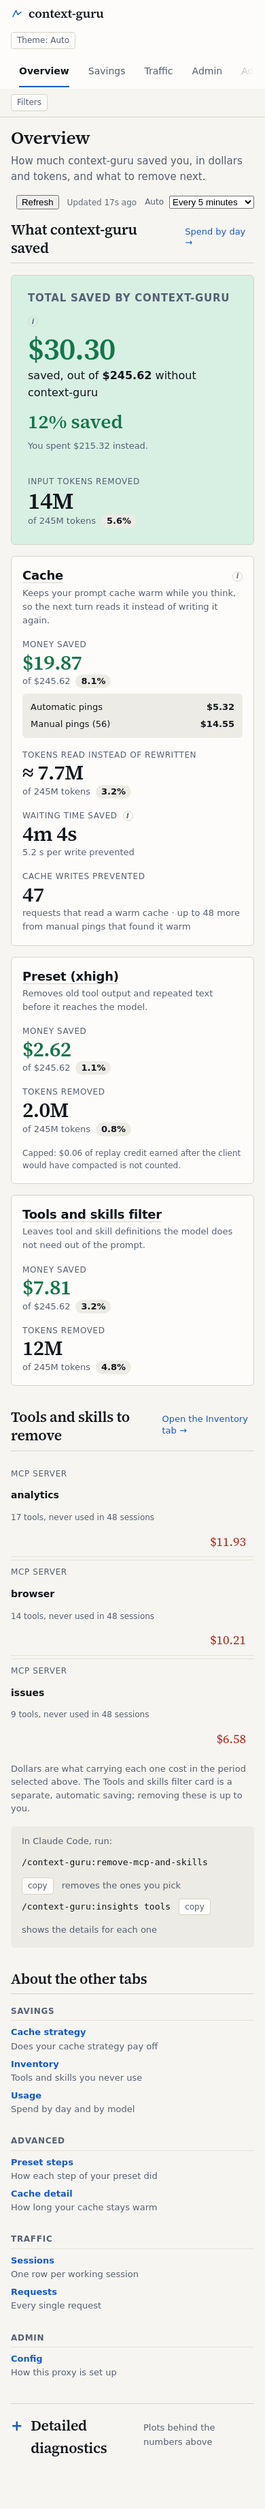
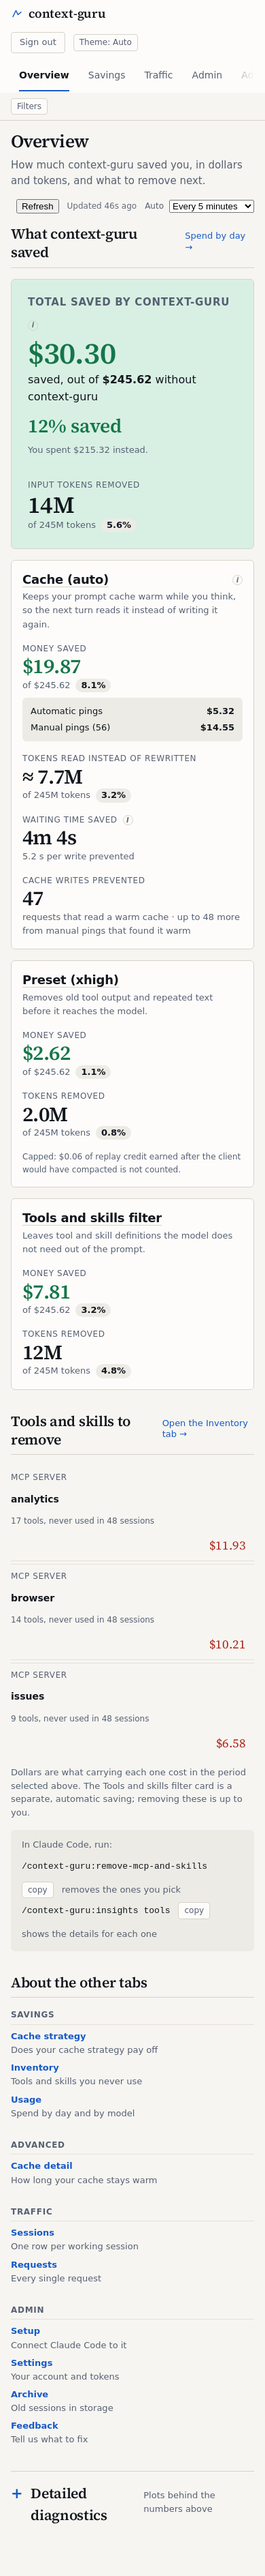
feat(dash): name the cache strategy on the Overview's Cache card
The Cache card title reads "Cache (auto)", beside "Preset (xhigh)". The
name is the plugin's (auto, 1-ping, 2-ping, 1-hour-head, none), read back
from the signed-in account's cache settings. No name for a manager, for a
local proxy, or for settings that match no named strategy.

Assisted-By: Claude Opus 5.5 (1M context) <noreply@anthropic.com>

diff --git a/dash/ui/savings.js b/dash/ui/savings.js
@@ -40,6 +40,22 @@ function writesPrevented(o) {
   return { requests: o.keepalive_misses_avoided || 0, manual: (o.manual_pings && o.manual_pings.writes_avoided) || 0 };
 }
 
+// The cache strategy's plugin name (context-guru-plugin/scripts/settings.py STRATEGIES), read back from
+// the account's cache settings: they hold numbers, not the name. '' when the settings match no named
+// strategy, so a hand-tuned account is never given a name it did not pick. Missing fields take the
+// proxy defaults (240 s; 2 pings; 1 ping on a 1-hour cache). The hosted settings form has no 1-hour
+// ping count, so there 2 pings reads as `auto`, the plugin's default, and not as `2-ping`.
+function strategyName(c) {
+  if (!c) return '';
+  if (!c.keepalive) return c.head_ttl_1h ? '1-hour-head' : 'none';
+  if ((c.keepalive_idle_seconds || 240) !== 240) return '';
+  const k = c.keepalive_max_pings || 2, k1h = c.keepalive_max_pings_1h || 1;
+  if (k === 1 && k1h === 1) return '1-ping';
+  if (k === 2 && k1h === 1) return 'auto';
+  if (k === 2 && k1h === 2) return '2-ping';
+  return '';
+}
+
 // The note under "Your preset" when the replay cap changed the figure, or could not be applied.
 // '' when there is nothing to say. `fmt` formats dollars.
 function capNote(o, fmt) {
@@ -53,4 +69,4 @@ function capNote(o, fmt) {
   return '';
 }
 
-if (typeof module !== 'undefined') module.exports = { savedParts, capNote, overviewTotals, writesPrevented };
+if (typeof module !== 'undefined') module.exports = { savedParts, capNote, overviewTotals, writesPrevented, strategyName };

diff --git a/dash/ui/app.js b/dash/ui/app.js
@@ -1782,7 +1782,12 @@ function renderSavedLedger(o, ka, partial) {
     el('li', { 'data-testid': 'saved-manual' }, el('span', { text: 'Manual pings' + (mp.count ? ' (' + num(mp.count) + ')' : '') }),
       el('strong', { text: usd(parts.manual) })),
     parts.reorder !== 0 ? el('li', {}, el('span', { text: 'Cache reorder' }), el('strong', { text: usd(parts.reorder) })) : null);
-  grid.appendChild(card('cache', 'saved-cache', 'Cache', '#/keepalive',
+  // The strategy's name, as the plugin calls it, beside "Cache" the way the preset's name sits beside
+  // "Preset". Read from the signed-in account's own settings; not guessed for a manager looking at
+  // everyone, nor for a local proxy, whose page does not see the plugin's strategy file.
+  const tn = account && account.tenant;
+  const sName = tn && tn.role !== 'manager' ? strategyName((tn.effective_config || {}).cache) : '';
+  grid.appendChild(card('cache', 'saved-cache', 'Cache' + (sName ? ' (' + sName + ')' : ''), '#/keepalive',
     'Keeps your prompt cache warm while you think, so the next turn reads it instead of writing it again.',
     [
       money('saved-cache-usd', cacheUSD, cacheRan),

diff --git a/docs/how-to/dashboard-guide.md b/docs/how-to/dashboard-guide.md
@@ -36,7 +36,7 @@ The "i" next to the title says how the total is added up. Every part is already 
 
 **One card for each part.** Each card shows the **money saved**, out of the same "without context-guru" figure, with its percent. The percents of the three cards add up to the total's percent. Each card also shows the **tokens** it saved, out of all input tokens, with a percent. Click a card's title to open its tab.
 
-- **Cache.** Keeps your prompt cache warm while you think, so the next turn reads the cache instead of writing it again.
+- **Cache.** Keeps your prompt cache warm while you think, so the next turn reads the cache instead of writing it again. On a hosted account the title carries your cache strategy, such as `(auto)`, the default. It shows no name when your settings match no named strategy.
     - **Automatic vs manual pings.** A small breakdown: what the automatic pings (your cache strategy) saved, and what your own presses of the Ping button saved. A *cache reorder* line shows when that step also earned money.
     - **Tokens read instead of rewritten.** About how many tokens were read from the cache at the cheap rate instead of being written again. Shown with "≈" because it is worked out from the dollars.
     - **Waiting time saved.** How much time you did not wait because the cache was still warm. The "i" next to it explains the calculation (see below).
